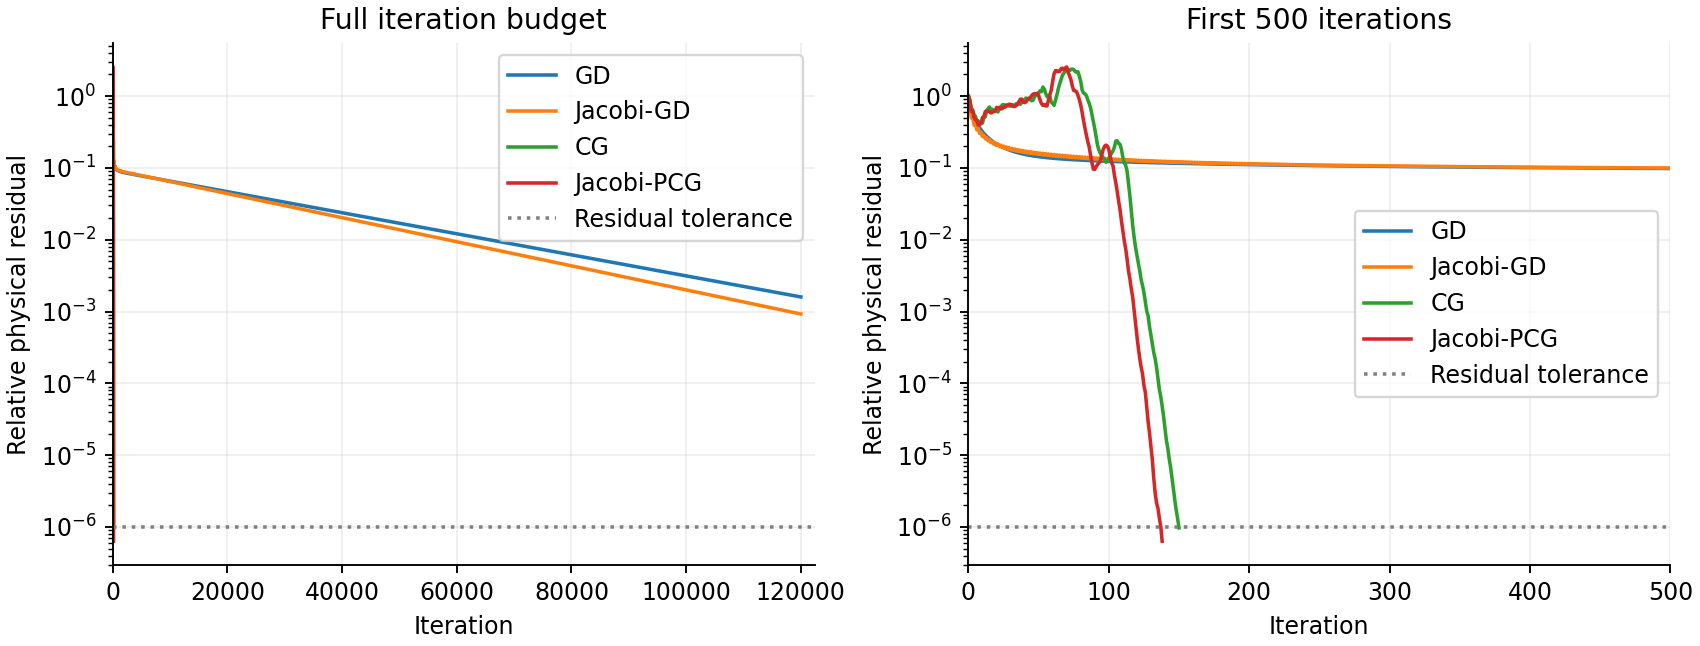
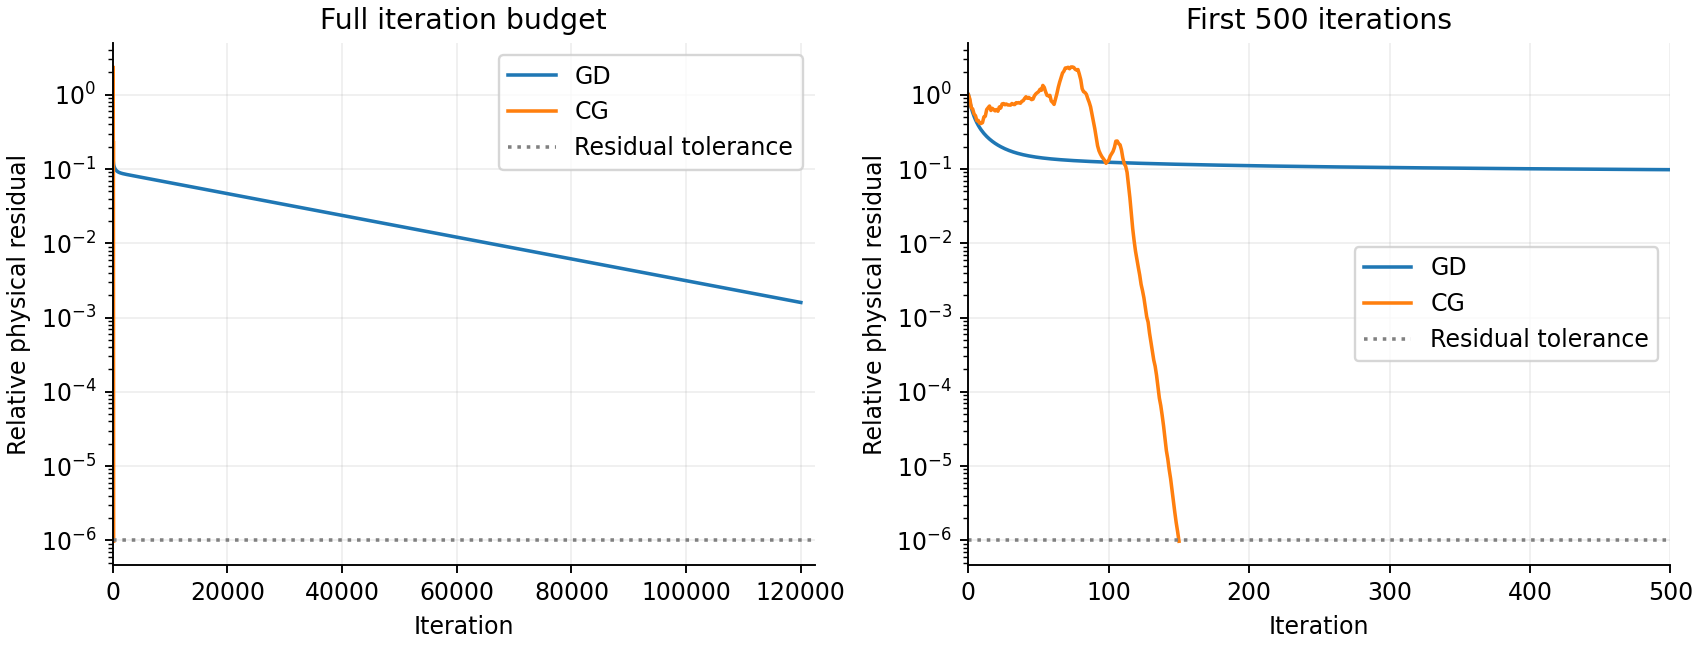
Simplify Project 2 narrative and show displacement on the optimized structure

diff --git a/projects/02_gradient_descent/src/conditioning_demo.py b/projects/02_gradient_descent/src/conditioning_demo.py
@@ -237,11 +237,14 @@ def make_figures(output, condition_rows, solver_rows, histories, spectra):
     fig.savefig(figdir / "eigenvalue_spectra.png", dpi=170); plt.close(fig)
 
     for case in ["uniform_24x8", "optimized_120x40_Emin_1e-09"]:
-        fig, axes = plt.subplots(1, 2, figsize=(10, 3.8), layout="constrained")
         uniform_case = case.startswith("uniform")
-        metrics = ("relative_residual", "relative_residual" if uniform_case else "relative_energy_gap")
+        fig, axes = plt.subplots(1, 2 if uniform_case else 1,
+                                 figsize=(10, 3.8) if uniform_case else (6.5, 3.8),
+                                 layout="constrained", squeeze=False)
+        axes = axes.ravel()
+        metrics = ("relative_residual",) * len(axes)
         max_iteration = 0
-        for method in ("GD", "Jacobi-GD", "CG", "Jacobi-PCG"):
+        for method in (("GD", "CG") if uniform_case else ("CG", "Jacobi-PCG")):
             rows = histories.get((case, method))
             if rows is None:
                 continue
@@ -303,6 +306,15 @@ def project_comparison(output, rho, A, b, pcg_solution, pcg_metrics):
     pcg_full[free] = pcg_solution
     p1_y = p1_full[1::2].reshape((41, 121), order="F")
     pcg_y = pcg_full[1::2].reshape((41, 121), order="F")
+    # Average the four nodal values onto each element, then mask only the plot.
+    # All densities and DOFs remain in the original SIMP equilibrium solve.
+    visible = rho.reshape((40, 120), order="F") >= 0.5
+    def material_field(nodal):
+        values = (nodal[:-1, :-1] + nodal[1:, :-1]
+                  + nodal[:-1, 1:] + nodal[1:, 1:]) / 4.0
+        return np.ma.array(values, mask=~visible)
+    p1_y, pcg_y = material_field(p1_y), material_field(pcg_y)
+    assert p1_y.count() == np.count_nonzero(visible)
     scale = np.max(np.abs(p1_y))
     plt.rcParams.update({"font.size": 10, "axes.spines.top": False,
                          "axes.spines.right": False})
@@ -327,7 +339,7 @@ def project_comparison(output, rho, A, b, pcg_solution, pcg_metrics):
     ax.set(yscale="log", ylim=(1e-8, 1), ylabel="Relative equilibrium residual",
            title=f"(d) Same layout, same budget: {budget:,} updates")
     ax.legend(loc="upper right"); ax.grid(axis="y", alpha=0.2)
-    fig.suptitle("Project 1 and Project 2: displacement agreement and solver convergence", fontsize=13)
+    fig.suptitle("Optimized beam: displacement comparison (density >= 0.5 shown)", fontsize=13)
     fig.savefig(figdir / "project1_project2_comparison.png", dpi=180)
     plt.close(fig)
 

diff --git a/projects/02_gradient_descent/report/report.md b/projects/02_gradient_descent/report/report.md
@@ -1,199 +1,140 @@
-# Project 2: Ill-Conditioning in MBB Beam Analysis
+# Project 2: Solving the MBB Beam Equilibrium Problem
 
-**Course:** MAE 598/494 Design Optimization
+**Kangzheng Liu · OptiForge · MAE 598/494 Design Optimization**
 
-**Team:** OptiForge
+## 1. Problem and Motivation
 
-**Member:** Kangzheng Liu
+[Project 1](../../01_problem_formulation/report/report.md) optimized where material should be placed in an MBB beam. Each design update required calculating the beam's displacement under load. Project 2 focuses on this calculation: **how can we solve for displacement efficiently when gradient descent converges slowly?**
 
-**Assignment:** [Project 2: Ill-Conditioned Optimization](https://designinformaticslab.github.io/DesignOptimization2025/project2.html)
+We retain the same beam, load, and supports. A downward unit force acts at the upper-left corner, horizontal displacement is fixed along the left edge, and vertical displacement is fixed at the lower-right corner.
 
-## 1. Problem Identification and Motivation
+![Beam geometry, load, and supports](../../01_problem_formulation/figures/problem_setup.png)
 
-Structural engineers use finite-element analysis to predict how a component deforms under load. In topology optimization, this calculation is repeated whenever the material distribution changes. A finer mesh describes the structure in more detail, but can also make the equilibrium equations harder to solve iteratively.
-
-In [Project 1](../../01_problem_formulation/report/report.md), SIMP–OC optimized the material distribution of a half MBB beam. Each design update used a sparse direct solve to obtain the displacements. Project 2 takes that equilibrium calculation as an energy-minimization problem and studies how to solve it iteratively. A downward unit load acts at the upper-left corner, horizontal motion is restrained along the left edge, and a roller supports the lower-right corner. For each prescribed material layout, the task is to find the displacement field that minimizes total potential energy.
-
-![Half MBB beam with the applied load and supports](../../01_problem_formulation/figures/problem_setup.png)
-
-The connection between the projects is:
-
-| | Project 1 | Project 2 |
-|---|---|---|
-| Variables being optimized | Element densities | Nodal displacements for a fixed density field |
-| Objective | Minimum compliance at a prescribed material volume | Minimum total potential energy |
-| Methods | SIMP–OC, with direct FE solves | GD, CG, and Jacobi preconditioning |
-| Result | Optimized material layout | Improved iterative convergence and agreement with the direct FE solution |
-
-We first use uniform beams to isolate the effect of mesh refinement, then apply the solvers to the saved Project 1 layout. The improvement is measured against the iterative baselines; the Project 1 direct solve provides the reference solution.
+The material layout is fixed during each solve. We first test uniform material on several meshes to isolate the effect of mesh refinement. We then apply the improved solver to the optimized layout saved from Project 1 and compare its displacement with the original direct FE solution.
 
 ## 2. Formulation
 
-The beam occupies a 120 by 40 domain with unit thickness. It is discretized using four-node square elements under plane stress. The mesh has $n_x=3n_y$ elements along its length and height, with element size $h=40/n_y$. Geometry, load, and supports remain fixed during refinement.
+The beam has dimensions 120 by 40 and unit thickness, using the normalized units of Project 1. It is divided into square, four-node plane-stress elements, with $n_x=3n_y$ and element size $h=40/n_y$.
 
-| Quantity | Definition | Value or admissible set |
+| Quantity | Meaning and units | Values or bounds |
 |---|---|---|
-| $\mathbf u\in\mathbb R^{n_d}$ | Continuous nodal displacement variables; units of length | $n_d=2(n_x+1)(n_y+1)$; prescribed support displacements below |
-| $\mathbf u_f\in\mathbb R^{n_f}$ | Free displacement variables after imposing supports | $n_f=n_d-(n_y+2)$; no additional bounds |
-| $\rho_e$ | Fixed, dimensionless element density | $0\leq\rho_e\leq1$ |
-| $\mathbf F$ | Nodal force vector | Downward unit load at the upper-left node |
-| $E_0,E_{\min}$ | Solid and void Young's moduli; units of force per area | $E_0=1$, baseline $E_{\min}=10^{-9}$ |
-| $p,\nu$ | SIMP exponent and Poisson ratio | $p=3$, $\nu=0.3$ |
+| $\mathbf u$ | Continuous nodal displacements; length | $2(n_x+1)(n_y+1)$ components; support constraints below |
+| $\rho_e$ | Fixed element material fraction; dimensionless | $0\leq\rho_e\leq1$ |
+| $\mathbf F$ | Applied nodal forces; force | Downward unit load |
+| $E_0,E_{\min}$ | Solid and void moduli; force per area | $E_0=1$, $E_{\min}=10^{-9}$ |
+| $p,\nu$ | SIMP exponent and Poisson ratio; dimensionless | $p=3$, $\nu=0.3$ |
 
-The calculation uses the normalized units of Project 1. Material stiffness follows the SIMP interpolation
-
-```math
-E_e=E_{\min}+\rho_e^p(E_0-E_{\min}).
-```
-
-For the resulting assembled stiffness matrix $K$, the optimization problem is
+As in Project 1, the element modulus is $E_e=E_{\min}+\rho_e^p(E_0-E_{\min})$. These moduli determine the assembled stiffness matrix $K$. The displacement minimizes total potential energy:
 
 ```math
 \begin{aligned}
-\min_{\mathbf u\in\mathbb R^{n_d}}\quad
-&\Pi(\mathbf u)=\frac12\mathbf u^{\mathsf T}K\mathbf u-\mathbf F^{\mathsf T}\mathbf u,\\
-\text{s.t.}\quad
-&u_x=0\quad\text{on the left edge},\\
+\min_{\mathbf u}\quad &\Pi(\mathbf u)=\frac12\mathbf u^{\mathsf T}K\mathbf u-\mathbf F^{\mathsf T}\mathbf u,\\
+\text{s.t.}\quad &u_x=0\quad\text{on the left edge},\\
 &u_y=0\quad\text{at the lower-right corner}.
 \end{aligned}
 ```
 
-The two terms represent strain energy and the potential of the applied load. Both have units of force times length. Eliminating the prescribed displacements gives
+The objective is strain energy minus the work of the applied force, with units of force times length. After removing the fixed displacements, the remaining variables $\mathbf u_f$ have no additional bounds. Their gradient and Hessian are
 
 ```math
-\nabla\Pi(\mathbf u_f)=K_{ff}\mathbf u_f-\mathbf F_f,
-\qquad H=\nabla^2\Pi=K_{ff}.
+\nabla\Pi=K_{ff}\mathbf u_f-\mathbf F_f,
+\qquad H=K_{ff}.
 ```
 
-Thus minimizing energy gives the equilibrium equation $K_{ff}\mathbf u_f=\mathbf F_f$. The positive material moduli and supports make $K_{ff}$ symmetric positive definite. The reduced problem is a continuous, deterministic, unconstrained, strictly convex quadratic with a unique minimizer. The 120 by 40 mesh has 9,880 free displacement variables.
+Setting the gradient to zero gives the familiar equilibrium equation $K_{ff}\mathbf u_f=\mathbf F_f$. The supported stiffness matrix is symmetric positive definite, so this is an unconstrained, continuous, deterministic, strictly convex quadratic problem with a unique solution. There are $2(n_x+1)(n_y+1)-(n_y+2)$ free variables, or 9,880 on the original 120 by 40 mesh.
 
-## 3. Ill-Conditioning Mechanism
+## 3. Why the Problem Is Ill-Conditioned
 
-The main mechanism is the discretization of an elastic differential operator, corresponding to family B in the assignment. Smooth, collective deformations have low energy relative to rapidly varying local deformations. As the mesh is refined, the stiffness matrix represents an increasingly wide range of these deformation modes.
-
-For a smooth admissible displacement, elastic energy remains finite as the mesh is refined, while the squared nodal norm grows with the number of nodes. This allows smaller eigenvalues alongside the larger eigenvalues associated with local deformation, increasing the condition number.
-
-To examine whether individual variable scales explain the difficulty, we compare
+Some displacement patterns deform the beam easily; others require much more energy. These differences appear as small and large eigenvalues of the Hessian. Their ratio is the condition number:
 
 ```math
-\kappa(K_{ff})=\frac{\lambda_{\max}(K_{ff})}{\lambda_{\min}(K_{ff})}
-\quad\text{and}\quad
-\kappa(J).
+\kappa(H)=\frac{\lambda_{\max}(H)}{\lambda_{\min}(H)}.
 ```
 
-Here Jacobi scaling uses
+A large ratio means the energy surface is much steeper in some directions than others. This is **family B: discretized differential operators** in the assignment. Mesh refinement adds local deformation modes while retaining smooth, low-energy modes. For a smooth displacement field, energy remains finite while the squared nodal norm grows with the number of nodes, allowing smaller eigenvalues as the mesh is refined.
+
+To test this mechanism independently of material contrast, we set every element density to 0.5 and refine the mesh while keeping the physical beam dimensions fixed. We also apply Jacobi scaling, which balances the displacement coordinates using their diagonal stiffness values:
 
 ```math
-D=\mathrm{diag}(K_{ff}),\qquad J=D^{-1/2}K_{ff}D^{-1/2}.
+D=\mathrm{diag}(H),\qquad J=D^{-1/2}HD^{-1/2}.
 ```
 
-For a uniform density of 0.5, the results are:
+| Mesh | Original condition number | After Jacobi scaling |
+|---|---:|---:|
+| 12 by 4 | 15,543 | 12,446 |
+| 24 by 8 | 59,263 | 51,807 |
+| 48 by 16 | 228,461 | 212,348 |
+| 120 by 40 | 1,404,156 | 1,363,443 |
 
-| Mesh | Free variables | Original condition number | After Jacobi scaling |
-|---|---:|---:|---:|
-| 12 by 4 | 124 | 15,543 | 12,446 |
-| 24 by 8 | 440 | 59,263 | 51,807 |
-| 48 by 16 | 1,648 | 228,461 | 212,348 |
-| 120 by 40 | 9,880 | 1,404,156 | 1,363,443 |
+![Condition numbers before and after Jacobi scaling as the mesh is refined](../figures/mesh_conditioning.png)
 
-![Condition number versus mesh resolution before and after Jacobi scaling](../figures/mesh_conditioning.png)
+Doubling the mesh resolution roughly quadruples the condition number. It remains large after diagonal scaling, satisfying both parts of the required intrinsic-conditioning test. The difficulty comes from coupled deformation across the beam, beyond differences in individual variable scales.
 
-The condition number increases by roughly a factor of four when the resolution doubles. Diagonal scaling makes a modest difference and leaves the same growth trend. The difficulty therefore persists after correcting individual variable scales.
+The full spectra below show the range of eigenvalues for the two smaller meshes. For larger meshes, the code computes the smallest and largest eigenvalues.
 
-The diagonal entries differ by at most a factor of four on these uniform meshes. Scaling them cannot remove the growing difference between collective and local deformation modes.
+![Eigenvalue spectra for the two smaller meshes](../figures/eigenvalue_spectra.png)
 
-## 4. Effect of Ill-Conditioning
+## 4. Effect on Gradient Descent
 
-The complete eigenvalue spectra of the two smaller meshes show the spread in curvature. The larger systems are characterized by their smallest and largest eigenvalues.
-
-![Eigenvalue spectra of the 12 by 4 and 24 by 8 meshes](../figures/eigenvalue_spectra.png)
-
-Gradient descent (GD) updates the free displacements as
+Gradient descent adjusts displacement in the direction that decreases energy:
 
 ```math
 \mathbf u_{k+1}=\mathbf u_k-\alpha(K_{ff}\mathbf u_k-\mathbf F_f),
-\qquad
-\alpha=\frac{2}{\lambda_{\max}+\lambda_{\min}}.
+\qquad \alpha=\frac{2}{\lambda_{\max}+\lambda_{\min}}.
 ```
 
-This is the optimal constant step for worst-case error contraction in a positive-definite quadratic. In the notation of [the gradient-descent lectures](https://designinformaticslab.github.io/DesignOptimization2025/gradient_descent_pt1_2025.html), $L=\lambda_{\max}$ and $\mu=\lambda_{\min}$, so $\kappa=L/\mu$. Its slowest-direction contraction factor is $q=(\kappa-1)/(\kappa+1)$. When $\kappa$ is large, $q$ is close to one and the error decreases slowly.
+We use the optimal constant step for this quadratic. Large eigenvalues limit the step size, leaving slow progress in directions with small eigenvalues. This is the condition-number effect discussed in the [gradient-descent lectures](https://designinformaticslab.github.io/DesignOptimization2025/gradient_descent_pt1_2025.html).
 
-All methods start from zero displacement and use the same relative equilibrium residual:
+All iterative methods start from zero displacement. They stop when the unbalanced force is less than one millionth of the applied force:
 
 ```math
-r_k=\frac{\lVert K_{ff}\mathbf u_k-\mathbf F_f\rVert_2}{\lVert\mathbf F_f\rVert_2}
-\leq10^{-6}.
+r_k=\frac{\lVert K_{ff}\mathbf u_k-\mathbf F_f\rVert_2}{\lVert\mathbf F_f\rVert_2}\leq10^{-6}.
 ```
 
-The residual is explicitly recomputed before accepting convergence. The comparison includes GD, Jacobi-scaled GD, conjugate gradient (CG), and Jacobi-preconditioned CG (Jacobi-PCG). GD methods have a limit of 120,000 updates; CG methods have a limit of 5,000.
+This relative residual is also the normalized gradient norm. The table compares gradient descent (GD) with conjugate gradient (CG), the remedy introduced below.
 
-| Mesh | GD | Jacobi-GD | CG | Jacobi-PCG |
-|---|---:|---:|---:|---:|
-| 12 by 4 | 93,648 | 75,404 | 76 | 68 |
-| 24 by 8 | Limit | Limit | 150 | 138 |
-| 48 by 16 | Limit | Limit | 293 | 275 |
-| 120 by 40 | — | — | 710 | 686 |
+| Uniform mesh | GD updates | CG updates |
+|---|---:|---:|
+| 12 by 4 | 93,648 | 76 |
+| 24 by 8 | Limit reached | 150 |
+| 48 by 16 | Limit reached | 293 |
+| 120 by 40 | Not run | 710 |
 
-Entries are updates to the stated tolerance. “Limit” means the tolerance was not reached within 120,000 updates; a dash indicates a method was not run. At the limit, the GD and Jacobi-GD residuals are $1.60\times10^{-3}$ and $9.24\times10^{-4}$ on the 24 by 8 mesh, and $1.66\times10^{-2}$ and $1.56\times10^{-2}$ on the 48 by 16 mesh.
+GD is limited to 120,000 updates. On the 24 by 8 mesh, its residual is still $1.60\times10^{-3}$ at that limit. CG reaches the required tolerance in 150 updates.
 
-![Residual convergence on the 24 by 8 mesh, with an enlarged view of the first 500 updates](../figures/convergence_uniform_24x8.png)
+![GD and CG convergence on the 24 by 8 mesh](../figures/convergence_uniform_24x8.png)
 
-Even on the 12 by 4 mesh, GD requires 93,648 updates. Jacobi scaling reduces this to 75,404, consistent with its limited effect on the condition number. CG reaches the same tolerance in 76 updates. Its iteration count also grows under refinement, but remains much smaller than that of GD.
+The left panel shows the full run; the right panel enlarges the first 500 updates. The difference persists even though GD uses a carefully selected step size.
 
-## 5. Proposed Solution and Demonstration
+## 5. Improving the Solver
 
-Following [the course treatment of conjugate gradient](https://designinformaticslab.github.io/DesignOptimization2025/gradient_descent_pt2_2025.html), CG addresses the coupling between displacement variables by constructing search directions that are conjugate with respect to $K_{ff}$. This reduces repeated correction of errors along previously explored directions. For positive-definite quadratics, its convergence bound depends on $\sqrt{\kappa}$, compared with the $\kappa$ dependence of fixed-step GD.
+CG uses search directions that are conjugate with respect to the stiffness matrix, reducing repeated correction along previously explored directions. Its convergence bound depends on $\sqrt{\kappa}$ rather than the $\kappa$ dependence of fixed-step GD. This is the quadratic optimization method covered in [the second set of gradient-based optimization lectures](https://designinformaticslab.github.io/DesignOptimization2025/gradient_descent_pt2_2025.html).
 
-Jacobi preconditioning rescales displacements according to their diagonal stiffness. With $\mathbf z=D^{1/2}\mathbf u_f$, the transformed Hessian is $J$. Jacobi-GD applies gradient descent in these coordinates, using the endpoints of $J$ to choose its step. Jacobi-PCG combines this scaling with conjugate search directions.
+We now return to the optimized Project 1 layout. Its stiff material paths and nearly empty regions introduce an additional stiffness contrast. Jacobi preconditioning balances these local scales before CG is applied. On this layout, it reduces the condition number from $1.188\times10^{12}$ to $1.132\times10^6$.
 
-The Project 1 direct solve corresponds to an exact Newton step for this quadratic and includes a matrix factorization.
+![Optimized material layout from Project 1](../../01_problem_formulation/figures/final_topology.png)
 
-### Optimized material layout
+The preconditioned method, Jacobi-PCG, reaches the residual tolerance in **1,201 updates**. Ordinary CG remains at $7.23\times10^{-3}$ after its limit of 5,000 updates.
 
-The final layout from Project 1 contains stiff load paths surrounded by low-density regions. We keep this density field fixed on the 120 by 40 mesh and vary $E_{\min}$ to examine the effect of material contrast.
+![CG and Jacobi-PCG residual convergence on the optimized beam](../figures/convergence_optimized_120x40_Emin_1e-09.png)
 
-| $E_{\min}$ | Original condition number | After Jacobi scaling | Jacobi-PCG updates |
-|---|---:|---:|---:|
-| $10^{-3}$ | $2.310\times10^6$ | $1.127\times10^6$ | 1,229 |
-| $10^{-6}$ | $1.281\times10^9$ | $1.132\times10^6$ | 1,216 |
-| $10^{-9}$ | $1.188\times10^{12}$ | $1.132\times10^6$ | 1,201 |
+The comparison below uses the original Project 1 direct solver as the reference. The displacement maps show elements with density at least 0.5, using the average vertical displacement of each element's four nodes. Low-density regions are left blank. This threshold affects only the display; the original density field is retained in the calculation. Both displacement maps share the reference maximum as their normalization, and panel (c) shows the normalized absolute difference.
 
-The original condition number increases sharply as void stiffness decreases. Jacobi scaling removes most of this additional spread, leaving condition numbers near $1.13\times10^6$ and similar PCG iteration counts. The mesh experiment establishes the intrinsic conditioning problem, while this case shows how preconditioning handles the additional material scales.
-
-At the original setting $E_{\min}=10^{-9}$, CG reaches a residual of $7.23\times10^{-3}$ after 5,000 updates. Jacobi-PCG reaches $9.27\times10^{-7}$ in 1,201 updates. The figure also shows the relative objective gap
-
-```math
-g_k=\frac{\Pi(\mathbf u_k)-\Pi(\mathbf u^\star)}
-{\Pi(\mathbf 0)-\Pi(\mathbf u^\star)},
-```
-
-where $\mathbf u^\star$ is obtained by a sparse direct solve.
-
-![Equilibrium residual and relative objective gap for the optimized layout](../figures/convergence_optimized_120x40_Emin_1e-09.png)
-
-### Comparison with Project 1
-
-The following comparison reruns the original Project 1 FE routine on its saved density field, using the same mesh, material properties, load, and supports. Panels (a) and (b) use the same color scale; panel (c) shows their difference. Panel (d) compares CG and Jacobi-PCG after the same 1,201 updates.
-
-![Project 1 direct solution and Project 2 displacement and convergence comparison](../figures/project1_project2_comparison.png)
+![Displacement on the optimized structure and equal-budget residual comparison](../figures/project1_project2_comparison.png)
 
 | Method | Iterative updates | Relative residual | Compliance |
 |---|---:|---:|---:|
-| Project 1: direct FE solve | — | $3.48\times10^{-12}$ | 210.040571 |
-| Project 2: CG | 1,201 | $9.51\times10^{-2}$ | 206.318024 |
-| Project 2: Jacobi-PCG | 1,201 | $9.27\times10^{-7}$ | 210.040571 |
+| Project 1: direct solve | — | $3.48\times10^{-12}$ | 210.040571 |
+| CG | 1,201 | $9.51\times10^{-2}$ | 206.318024 |
+| Jacobi-PCG | 1,201 | $9.27\times10^{-7}$ | 210.040571 |
 
-At the same iteration budget, Jacobi-PCG reduces the residual by about five orders of magnitude relative to CG. It reproduces the Project 1 compliance and has a relative displacement-vector error of $3.07\times10^{-5}$ (about 0.0031%). The CG result is still inaccurate at this budget. The maps include all mesh nodes, including low-density regions; the difference map is normalized by the maximum reference vertical displacement.
-
-The density field and structural objective remain those of Project 1. Project 2 adds an iterative solution whose convergence is improved by preconditioning. The experiment establishes fewer iterations and a smaller residual than the iterative baselines; it does not establish a runtime advantage over the Project 1 direct solver.
+At the same iteration budget, preconditioning lowers the residual by about five orders of magnitude. Jacobi-PCG reproduces the Project 1 beam response and compliance. The improvement demonstrated here is iterative convergence; the material layout is unchanged, and runtime relative to the direct solver has not been benchmarked.
 
 ## 6. Assumptions and Simplifications
 
-The model assumes isotropic linear elasticity, small deformation, plane stress, unit thickness, and one static load case. Density is fixed during each solve. The unit load sets the normalization; scaling it down to keep deformation small leaves the condition numbers and relative-error comparisons unchanged.
+The model uses small-deformation, isotropic linear elasticity, plane stress, unit thickness, and one static load case. Material density stays fixed during each solve. The unit load defines a normalized response; reducing its magnitude leaves conditioning and relative residuals unchanged. Performance is compared by iterations to the same residual tolerance.
 
-The point load and single-node roller are retained from Project 1. The results concern conditioning and equilibrium-solver convergence for this discrete model. Stress limits, buckling, nonlinear deformation, and mesh convergence of local stresses are outside the study. Computational improvement is measured by iterations to a common residual tolerance.
-
-## 7. Reproduction
+## Reproduction
 
 Use Python 3.12 and run from the repository root:
 
@@ -202,24 +143,22 @@ python -m pip install -r projects/02_gradient_descent/requirements.txt
 python projects/02_gradient_descent/src/conditioning_demo.py
 ```
 
-The [script](../src/conditioning_demo.py) uses the FE routines and saved density from Project 1 and generates the figures and numerical results. The environment versions and seed are recorded in [metadata.json](../results/metadata.json). Condition numbers are in [conditioning.csv](../results/conditioning.csv), and iteration counts, final residuals, and errors are in [solvers.csv](../results/solvers.csv). The [results directory](../results/) includes the sampled convergence histories and the [Project 1–2 comparison](../results/project1_project2_comparison.csv).
+The [code](../src/conditioning_demo.py) reads the Project 1 FE model and saved density. The [results](../results/) contain condition numbers, solver histories, the comparison table, and environment metadata. Additional scaling experiments are retained there.
 
-A small hand calculation checks both the condition number and iteration counts. For one solid square element with $\nu=0.3$, fixing all displacements except the two top-node vertical displacements gives
+For a hand check, fixing all but the two upper vertical displacements of one solid square element gives
 
 ```math
 H_{\mathrm{check}}=\frac1{91}
 \begin{bmatrix}
 45 & 5 \\
 5 & 45
-\end{bmatrix},
-\qquad
-\lambda_1=\frac{40}{91},\quad\lambda_2=\frac{50}{91},\quad\kappa=1.25.
+\end{bmatrix}.
 ```
 
-With $\mathbf b=(1,0)^{\mathsf T}$ and zero initial displacement, optimal fixed-step GD has relative residual $9^{-k}$, reaching $10^{-6}$ in seven updates; CG requires two. The code reproduces these values and checks the energy gradient, sparse eigenvalues, and Project 1 compliance. Results are saved in [verification.json](../results/verification.json).
+Its eigenvalues are $40/91$ and $50/91$, giving $\kappa=1.25$. With load $(1,0)^{\mathsf T}$, zero initial displacement, and the same tolerance, GD requires seven updates and CG two. The code verifies these values in [verification.json](../results/verification.json).
 
 ## References
 
 1. MAE 598/494, [Project 2: Ill-Conditioned Optimization](https://designinformaticslab.github.io/DesignOptimization2025/project2.html).
-2. Kangzheng Liu, [Project 1: Formulation and Solution of a SIMP Topology-Optimization Problem](../../01_problem_formulation/report/report.md).
-3. E. Andreassen, A. Clausen, M. Schevenels, B. S. Lazarov, and O. Sigmund, “Efficient topology optimization in MATLAB using 88 lines of code,” *Structural and Multidisciplinary Optimization*, 43, 1–16, 2011. [doi:10.1007/s00158-010-0594-7](https://doi.org/10.1007/s00158-010-0594-7).
+2. Kangzheng Liu, [Project 1: SIMP–OC Topology Optimization](../../01_problem_formulation/report/report.md).
+3. E. Andreassen et al., “Efficient topology optimization in MATLAB using 88 lines of code,” *Structural and Multidisciplinary Optimization*, 43, 1–16, 2011. [doi:10.1007/s00158-010-0594-7](https://doi.org/10.1007/s00158-010-0594-7).

diff --git a/projects/02_gradient_descent/README.md b/projects/02_gradient_descent/README.md
@@ -2,7 +2,7 @@
 
 ![Project 2 cover: optimized beam and equilibrium convergence](figures/project2_cover.png)
 
-**Ill-Conditioning in MBB Beam Analysis**
+**Solving the MBB Beam Equilibrium Problem**
 
 Kangzheng Liu · OptiForge · MAE 598/494 Design Optimization
 
